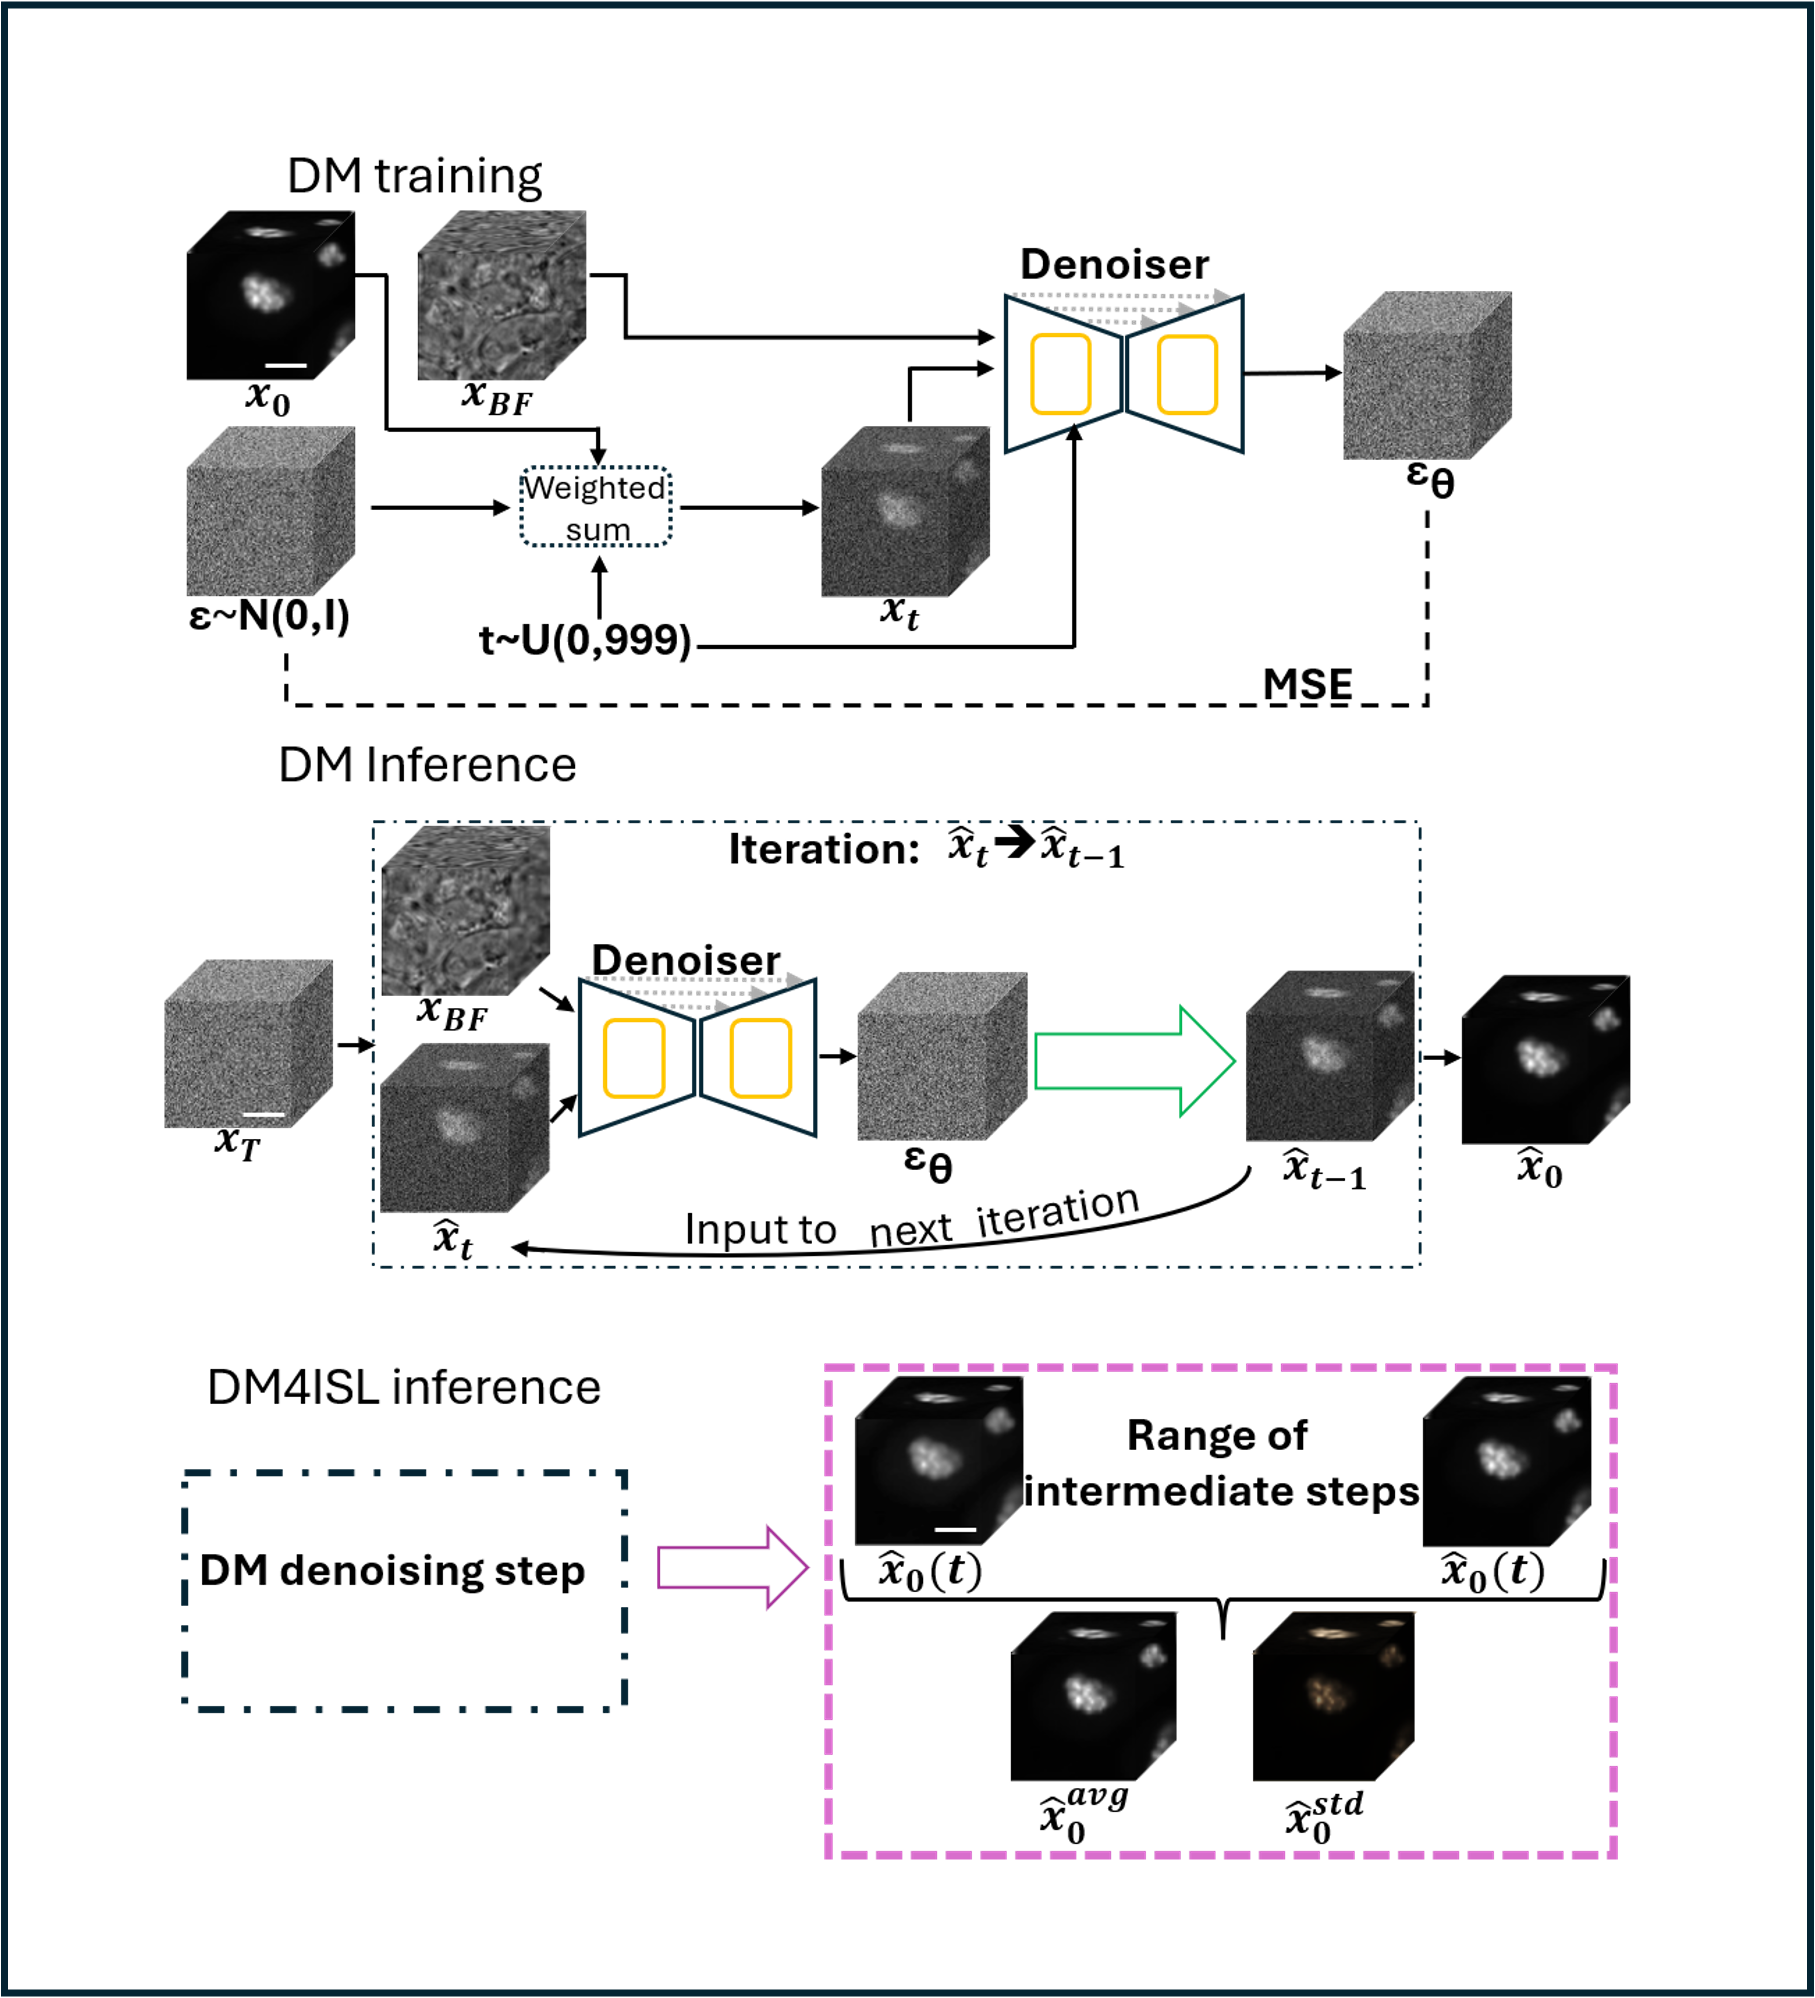
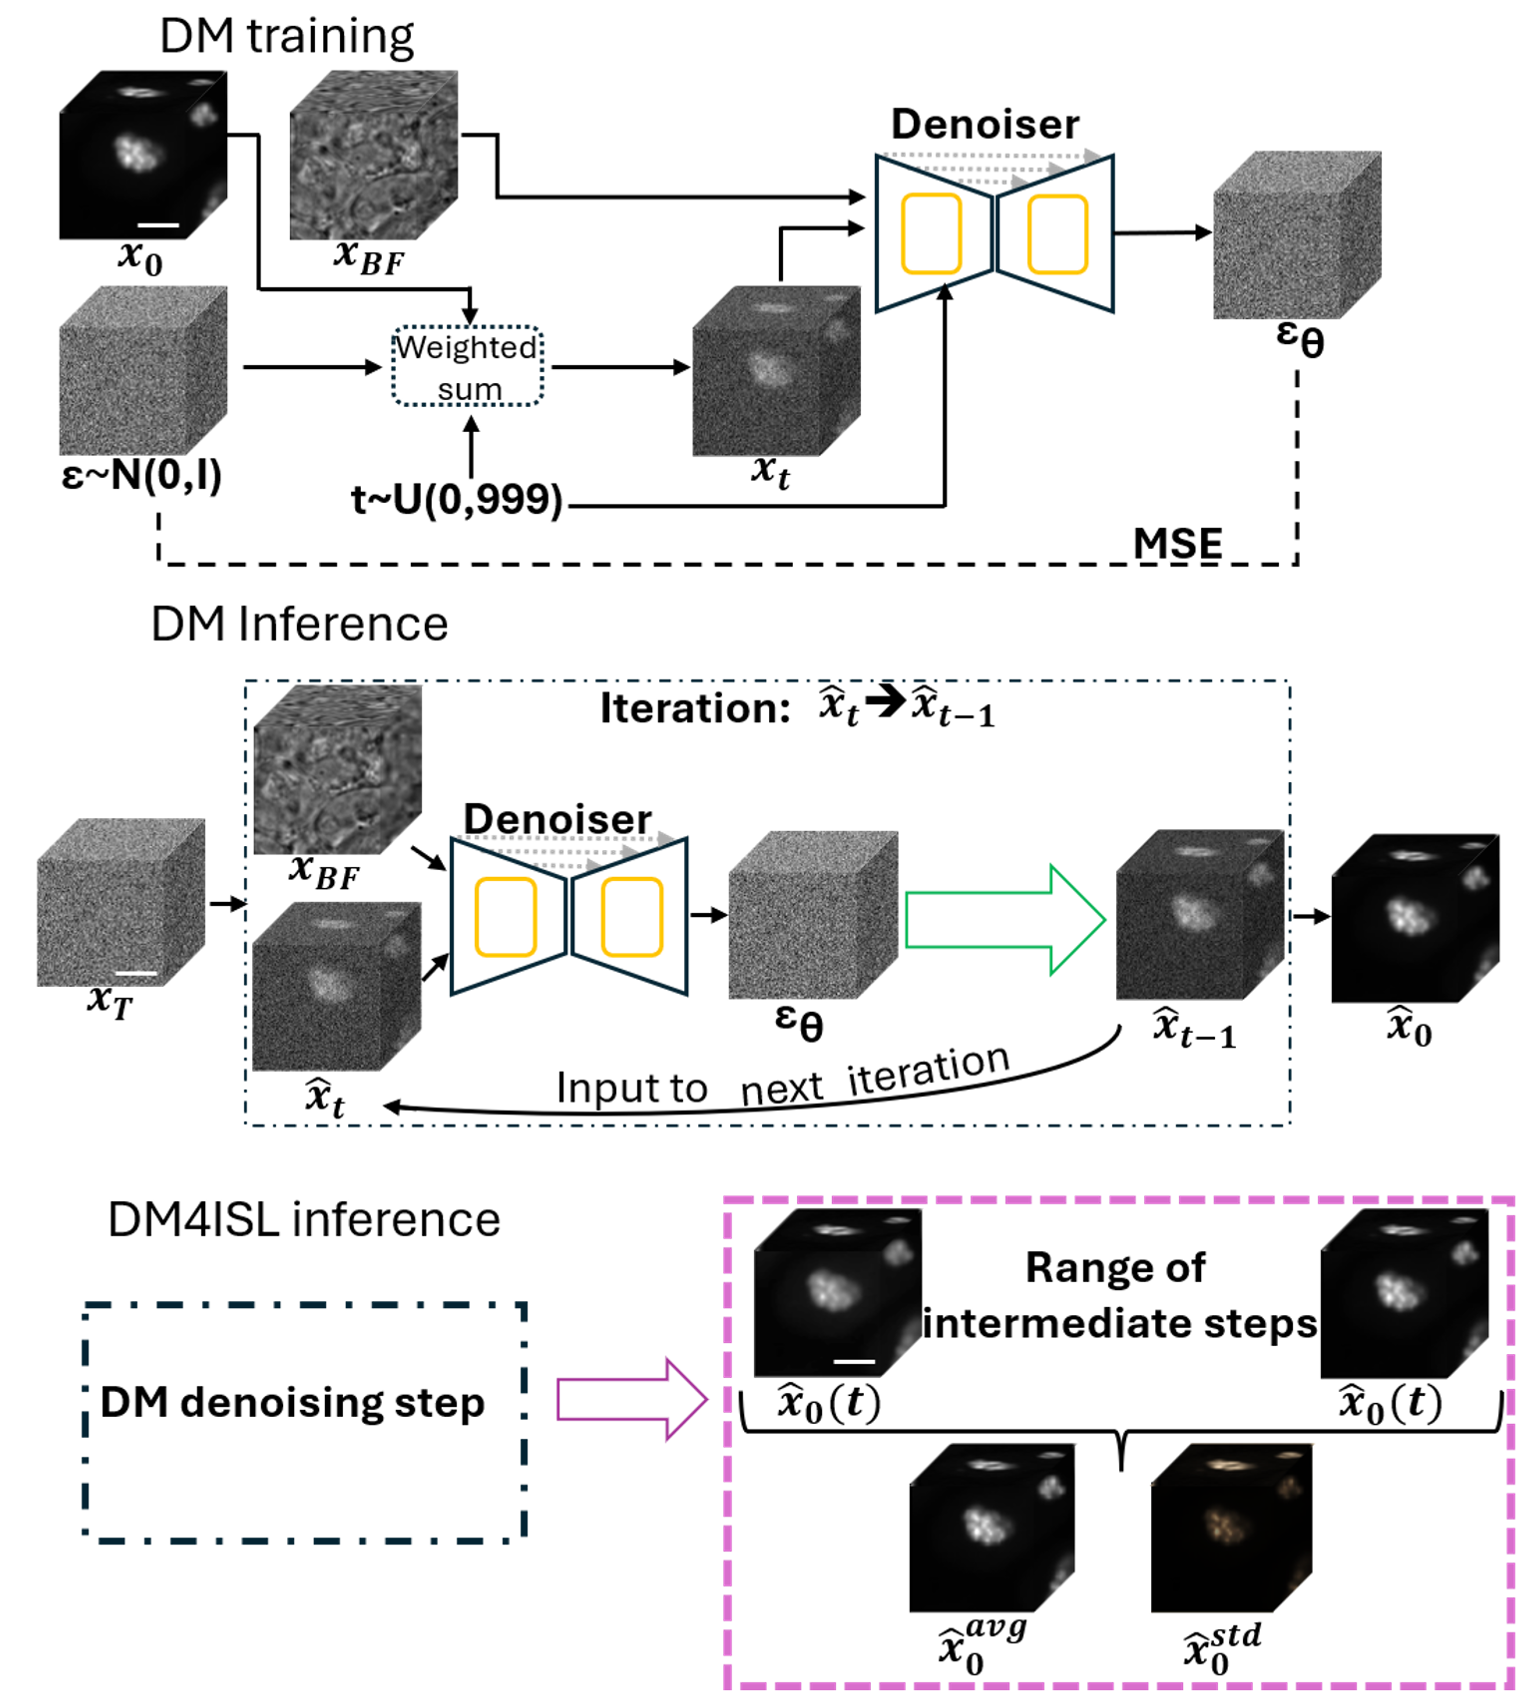
Improve README layout and crop workflow figure

diff --git a/README.md b/README.md
@@ -85,3 +85,32 @@ For demonstration purposes, the notebook can also be run using the smaller examp
 ## Acknowledgement
 Our work builds upon MONAI's diffusion models framework. We adapted the image-to-image translation for 3D microscopy images and extended it to support the DM4ISL inference procedure.
 [https://github.com/Project-MONAI/MONAI](https://github.com/Project-MONAI/GenerativeModels/tree/main/tutorials/generative)
+
+## Contacts
+
+**Author**: [Oded Rotem](mailto:roded314@gmail.com)
+
+**Corresponding Author**: [Assaf Zaritsky](mailto:assafzar@gmail.com)
+
+## Citation
+
+If you use this implementation in your research, please cite:
+
+<b>Rotem, O., Kliper-Gross, O., and Zaritsky, A.</b><br>
+<i>DM4ISL: a diffusion model-based high-fidelity and uncertainty-aware in silico labeling of fluorescence images</i><br>
+bioRxiv (2026). https://doi.org/
+<pre>@article {,
+	author = {Rotem Oded, Kliper-Gross Orit, and Zaritsky Assaf},
+	title = {Cell-context dependent in silico organelle localization in label-free microscopy images},
+	elocation-id = {},
+	year = {},
+	doi = {},
+	publisher = {},
+	URL = {},
+	eprint = {},
+	journal = {}
+} </pre>
+
+## License
+
+This repository is licensed under the [Creative Commons Attribution-NonCommercial 4.0 International License (CC BY-NC 4.0)](https://creativecommons.org/licenses/by-nc/4.0/).
